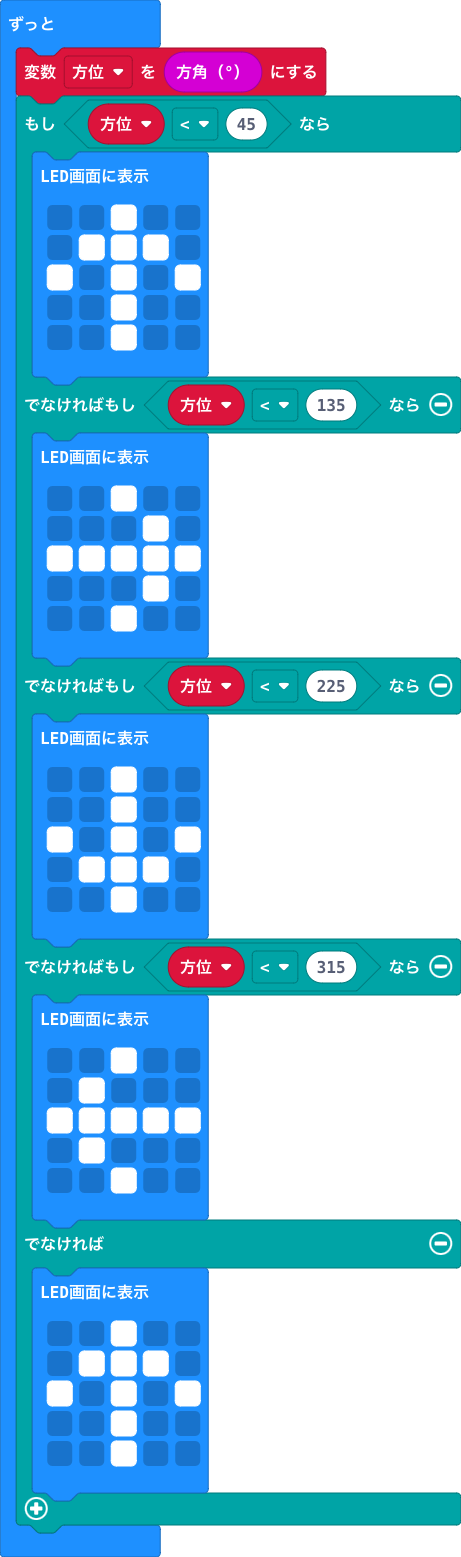
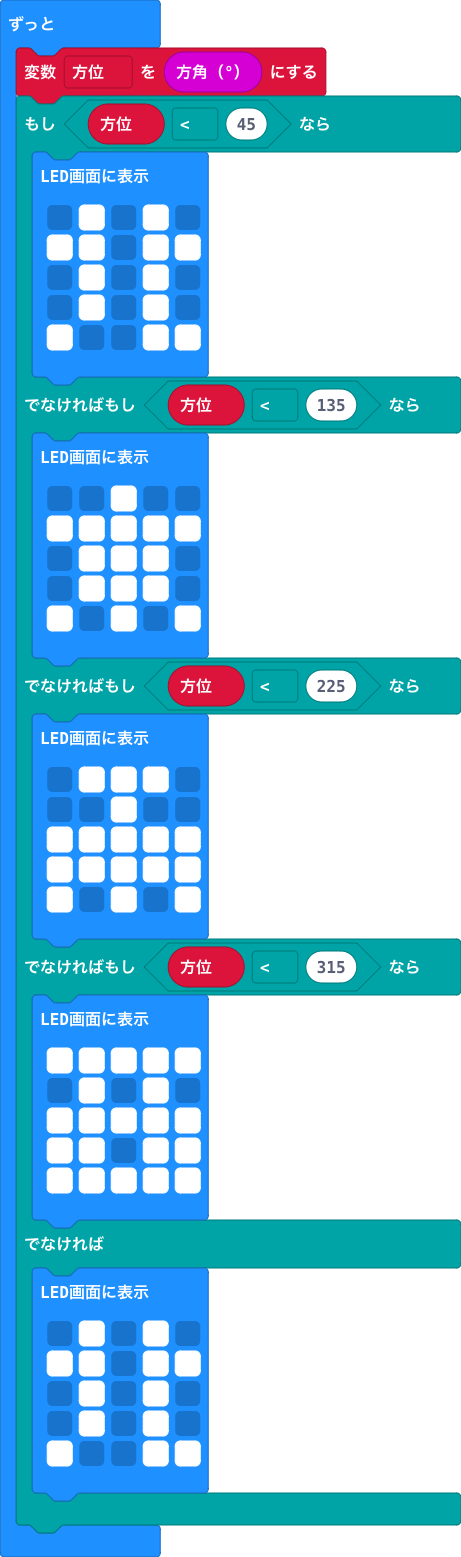
更新 main.blocks, main.ts

diff --git a/main.ts b/main.ts
@@ -3,43 +3,43 @@ basic.forever(function () {
     方位 = input.compassHeading()
     if (方位 < 45) {
         basic.showLeds(`
-            . . # . .
-            . # # # .
-            # . # . #
-            . . # . .
-            . . # . .
+            . # . # .
+            # # . # #
+            . # . # .
+            . # . # .
+            # . . # #
             `)
     } else if (方位 < 135) {
         basic.showLeds(`
             . . # . .
-            . . . # .
             # # # # #
-            . . . # .
-            . . # . .
+            . # # # .
+            . # # # .
+            # . # . #
             `)
     } else if (方位 < 225) {
         basic.showLeds(`
-            . . # . .
-            . . # . .
-            # . # . #
             . # # # .
             . . # . .
+            # # # # #
+            # # # # #
+            # . # . #
             `)
     } else if (方位 < 315) {
         basic.showLeds(`
-            . . # . .
-            . # . . .
             # # # # #
-            . # . . .
-            . . # . .
+            . # . # .
+            # # # # #
+            # # . # #
+            # # # # #
             `)
     } else {
         basic.showLeds(`
-            . . # . .
-            . # # # .
-            # . # . #
-            . . # . .
-            . . # . .
+            . # . # .
+            # # . # #
+            . # . # .
+            . # . # .
+            # . . # #
             `)
     }
 })
